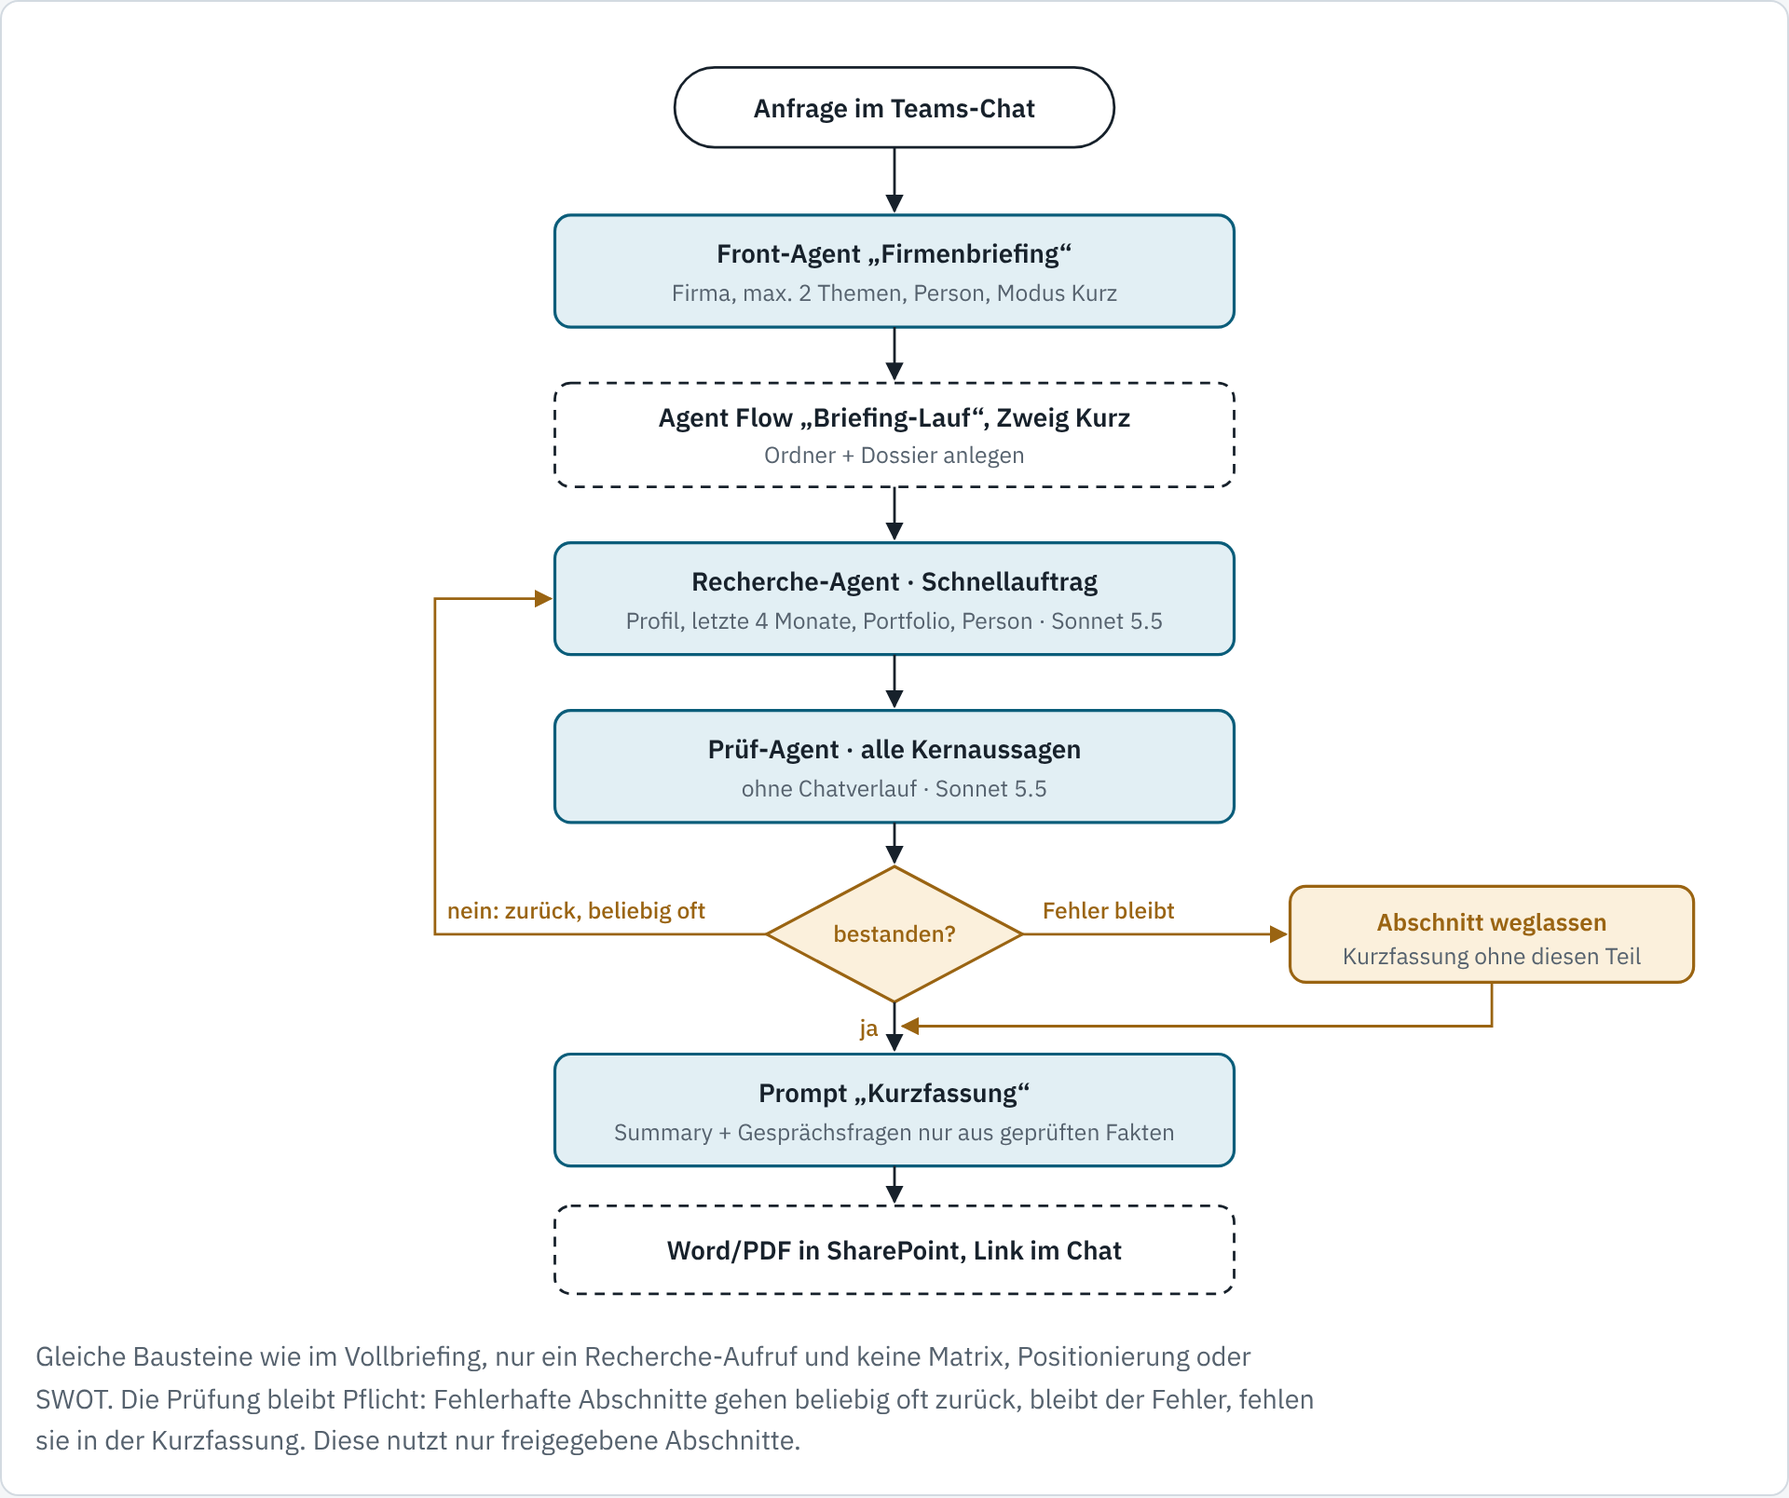
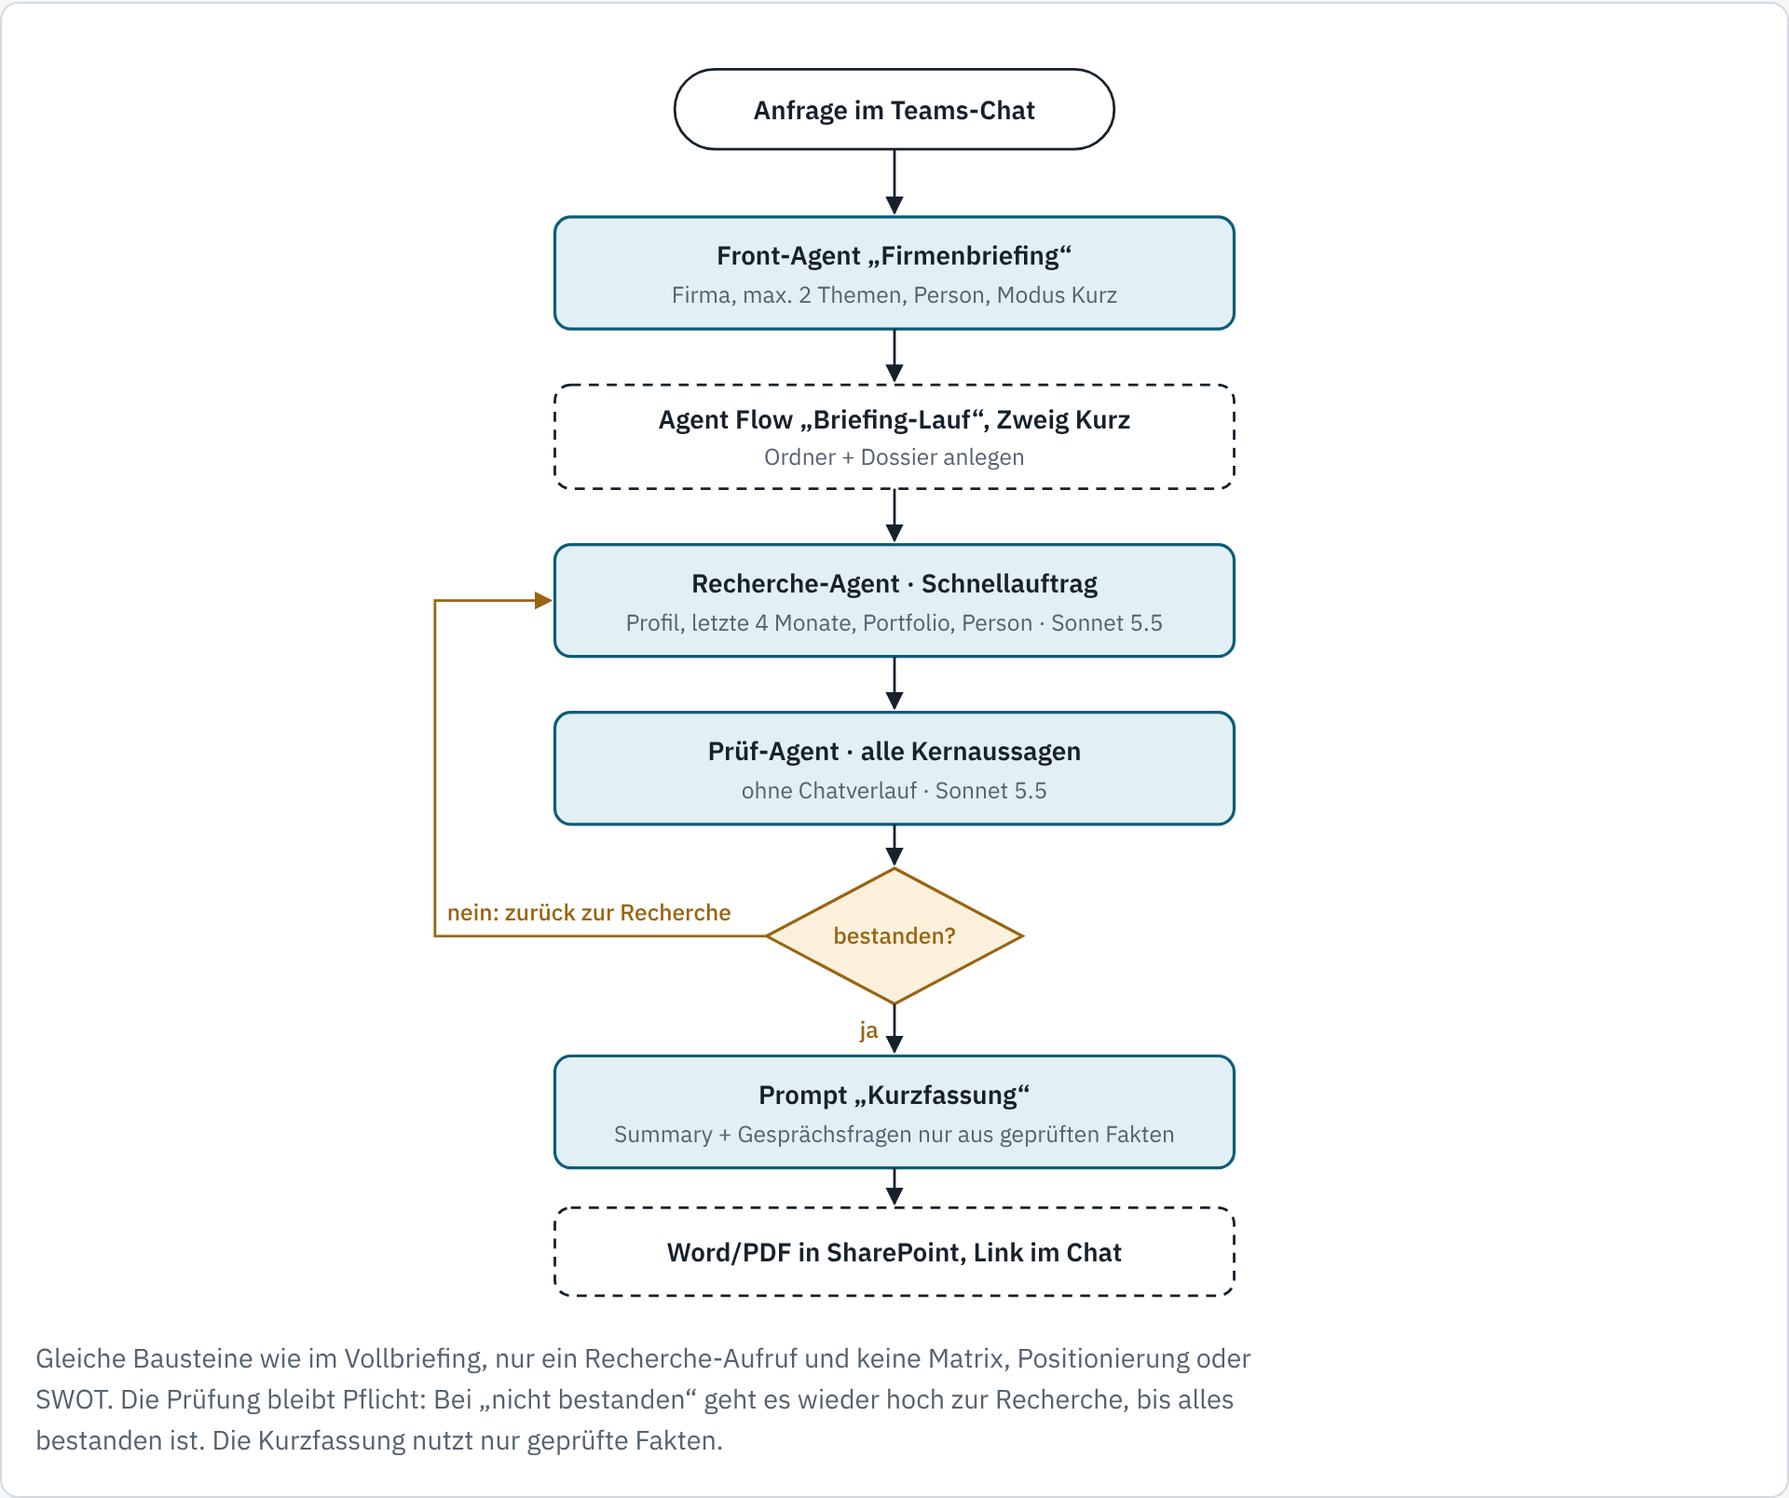
Simplify review gates to a plain loop back on failure
Removes the 'error persists' branch: a failed section simply goes back
to its module until the review passes.

Claude-Session: https://claude.ai/code/session_013EJZuiswwf8FQgHL5qthTW

diff --git a/docs/copilot-studio/zielbild.html b/docs/copilot-studio/zielbild.html
@@ -73,7 +73,6 @@ figcaption { font-size: .9rem; color: var(--muted); max-width: 80ch; }
 .sw-agent { background: var(--agent-fill); border: 1.5px solid var(--accent); }
 .sw-flow { border: 1.5px dashed var(--ink); }
 .sw-gate { background: var(--gate-fill); border: 1.5px solid var(--gate); transform: rotate(45deg) scale(.7); width: 16px; height: 16px; }
-.sw-vm { background: var(--gate-fill); border: 1.5px solid var(--gate); }
 /* SVG-Klassen */
 .ag { fill: var(--agent-fill); stroke: var(--accent); stroke-width: 1.5; }
 .fl { fill: var(--surface); stroke: currentColor; stroke-width: 1.3; stroke-dasharray: 5 4; }
@@ -87,8 +86,6 @@ figcaption { font-size: .9rem; color: var(--muted); max-width: 80ch; }
 .tp { font: 600 12px var(--display); fill: var(--accent); letter-spacing: .05em; }
 .tg { font: 500 11.5px var(--body); fill: var(--gate); }
 .ts { font: 600 12px var(--body); fill: var(--stop); }
-.vm { fill: var(--gate-fill); stroke: var(--gate); stroke-width: 1.5; }
-.tv { font: 600 12px var(--body); fill: var(--gate); }
 .ah { fill: currentColor; }
 .ahg { fill: var(--gate); }
 .cols { display: grid; grid-template-columns: repeat(auto-fit, minmax(280px, 1fr)); gap: 14px; }
@@ -140,7 +137,7 @@ a { color: var(--accent); }
       <tr><td>Dateien je Lauf</td><td>rund 15 JSON-Dateien plus Prüfpläne und Checkpoints</td><td><b>1 Dossier</b> mit einem Abschnitt je Agent, dazu das fertige Briefing</td></tr>
       <tr><td>Wer schreibt</td><td>Jede Rolle schreibt ihre eigene Datei</td><td>Agenten liefern Ergebnisse zurück, <b>nur der Flow schreibt</b></td></tr>
       <tr><td>Freigabe</td><td>Regeln im Prompt plus Python-Prüfskripte</td><td>Prüf-Agent urteilt je Aussage, Flow-Bedingung setzt das Urteil durch</td></tr>
-      <tr><td>Fehler bei der Prüfung</td><td>höchstens 2 Korrekturrunden, danach wird der Lauf blockiert</td><td>Prüf-Agent gibt <b>beliebig oft</b> an das Modul zurück. Bleibt der Fehler, wird <b>der Abschnitt weggelassen</b> und der Lauf geht weiter.</td></tr>
+      <tr><td>Fehler bei der Prüfung</td><td>höchstens 2 Korrekturrunden, danach wird der Lauf blockiert</td><td>Bei „nicht bestanden“ geht der Abschnitt <b>einfach wieder hoch</b> an das zuständige Modul, bis die Prüfung bestanden ist.</td></tr>
       <tr><td>Regelwerk</td><td>rund 315 KB in 36 Referenzdateien</td><td>je Modul eine kurze Auftragskarte, aus dem Repository erzeugt</td></tr>
       <tr><td>Ausgabe</td><td>HTML über lokale Renderer</td><td>Gleiche Renderer als Tool, dazu PDF, Ablage in SharePoint</td></tr>
     </tbody>
@@ -154,11 +151,10 @@ a { color: var(--accent); }
     <span><i class="sw sw-agent"></i>KI-Schritt (Agent oder Prompt)</span>
     <span><i class="sw sw-flow"></i>Flow- oder Code-Schritt</span>
     <span><i class="sw sw-gate"></i>Prüftor</span>
-    <span><i class="sw sw-vm"></i>Abschnitt weglassen</span>
   </div>
   <figure>
   <div class="scroll">
-  <svg viewBox="0 0 860 1060" role="img" aria-label="Vollbriefing: Front-Agent legt den Auftrag an, ein Agent Flow ruft vier Recherche-Module und je Fokusthema einen Aufruf auf, der Prüf-Agent gibt fehlerhafte Abschnitte beliebig oft an das Modul zurück und lässt einen Abschnitt weg, wenn der Fehler bleibt, danach Positionierung, SWOT und Schlussprüfung nach demselben Prinzip, zuletzt rendert ein Tool HTML und PDF in SharePoint.">
+  <svg viewBox="0 0 860 1060" role="img" aria-label="Vollbriefing: Front-Agent legt den Auftrag an, ein Agent Flow ruft vier Recherche-Module und je Fokusthema einen Aufruf auf, bei nicht bestandener Prüfung geht der Abschnitt zurück an das Modul, bis er besteht, danach Positionierung, SWOT und Schlussprüfung nach demselben Prinzip, zuletzt rendert ein Tool HTML und PDF in SharePoint.">
     <defs>
       <marker id="a1" viewBox="0 0 10 10" refX="9" refY="5" markerWidth="7" markerHeight="7" orient="auto-start-reverse"><path d="M0,0 L10,5 L0,10 z" class="ah"/></marker>
       <marker id="g1" viewBox="0 0 10 10" refX="9" refY="5" markerWidth="7" markerHeight="7" orient="auto-start-reverse"><path d="M0,0 L10,5 L0,10 z" class="ahg"/></marker>
@@ -239,14 +235,7 @@ a { color: var(--accent); }
 
     <!-- Rücklauf Phase 1 -->
     <polyline points="366,604 18,604 18,321 34,321" class="lb" marker-end="url(#g1)"/>
-    <text x="40" y="596" class="tg">nein: zurück an das Modul, beliebig oft</text>
-    <!-- Abschnitt weglassen -->
-    <line x1="494" y1="604" x2="626" y2="604" class="lb" marker-end="url(#g1)"/>
-    <text x="504" y="596" class="tg">Fehler bleibt</text>
-    <rect x="628" y="580" width="202" height="48" rx="8" class="vm"/>
-    <text x="729" y="602" text-anchor="middle" class="tv">Abschnitt weglassen</text>
-    <text x="729" y="619" text-anchor="middle" class="t2">Briefing ohne diesen Teil</text>
-    <polyline points="729,628 729,658 434,658" class="lb" marker-end="url(#g1)"/>
+    <text x="40" y="596" class="tg">nein: zurück an das Modul</text>
 
     <!-- Phase 2 -->
     <text x="36" y="676" class="tp">PHASE 2 · BEWERTUNG</text>
@@ -273,13 +262,7 @@ a { color: var(--accent); }
     <polygon points="430,864 494,900 430,936 366,900" class="gt"/>
     <text x="430" y="904" text-anchor="middle" class="tg">bestanden?</text>
     <polyline points="366,900 196,900 196,716 218,716" class="lb" marker-end="url(#g1)"/>
-    <text x="204" y="892" class="tg">nein: zurück, beliebig oft</text>
-    <line x1="494" y1="900" x2="626" y2="900" class="lb" marker-end="url(#g1)"/>
-    <text x="504" y="892" class="tg">Fehler bleibt</text>
-    <rect x="628" y="876" width="202" height="48" rx="8" class="vm"/>
-    <text x="729" y="898" text-anchor="middle" class="tv">Abschnitt weglassen</text>
-    <text x="729" y="915" text-anchor="middle" class="t2">z. B. SWOT entfällt</text>
-    <polyline points="729,924 729,950 434,950" class="lb" marker-end="url(#g1)"/>
+    <text x="204" y="892" class="tg">nein: zurück zur Bewertung</text>
 
     <!-- Ausgabe -->
     <line x1="430" y1="936" x2="430" y2="962" class="ln" marker-end="url(#a1)"/>
@@ -292,7 +275,7 @@ a { color: var(--accent); }
     <text x="746" y="995" text-anchor="middle" class="t1">Link im Teams-Chat</text>
   </svg>
   </div>
-  <figcaption>Der Flow ruft dieselben Agenten mehrfach auf, jeweils mit einer anderen Auftragskarte. Alle Recherche-Aufrufe nutzen die Tools „Websuche“ und „Quelle abrufen“; Bewertung und SWOT arbeiten ohne Websuche. Jeder Rücklauf geht gezielt an das betroffene Modul, nicht an den ganzen Lauf, und zwar so oft wie nötig. „Fehler bleibt“ heißt: Der Prüf-Agent meldet denselben Fehler erneut, oder die technische Obergrenze des Flows ist erreicht. Dann fällt der Abschnitt weg, und alles, was darauf aufbaut, nutzt ihn nicht. Der Lauf wird nie blockiert.</figcaption>
+  <figcaption>Der Flow ruft dieselben Agenten mehrfach auf, jeweils mit einer anderen Auftragskarte. Alle Recherche-Aufrufe nutzen die Tools „Websuche“ und „Quelle abrufen“; Bewertung und SWOT arbeiten ohne Websuche. Bei „nicht bestanden“ geht nur der betroffene Abschnitt wieder hoch an sein Modul, nicht der ganze Lauf. Das wiederholt sich, bis die Prüfung bestanden ist.</figcaption>
   </figure>
 </section>
 
@@ -300,7 +283,7 @@ a { color: var(--accent); }
   <h2>Ablauf Kurzbriefing</h2>
   <figure>
   <div class="scroll">
-  <svg viewBox="0 0 860 640" role="img" aria-label="Kurzbriefing: Front-Agent legt den Auftrag an, der Flow ruft einen Schnellrecherche-Aufruf auf, der Prüf-Agent gibt Fehler beliebig oft zurück und lässt einen Abschnitt weg, wenn der Fehler bleibt, ein Prompt schreibt Summary und Gesprächsfragen, das Ergebnis landet als Word oder PDF in SharePoint.">
+  <svg viewBox="0 0 860 640" role="img" aria-label="Kurzbriefing: Front-Agent legt den Auftrag an, der Flow ruft einen Schnellrecherche-Aufruf auf, bei nicht bestandener Prüfung geht es zurück zur Recherche, bis sie besteht, danach schreibt ein Prompt Summary und Gesprächsfragen, das Ergebnis landet als Word oder PDF in SharePoint.">
     <defs>
       <marker id="a2" viewBox="0 0 10 10" refX="9" refY="5" markerWidth="7" markerHeight="7" orient="auto-start-reverse"><path d="M0,0 L10,5 L0,10 z" class="ah"/></marker>
       <marker id="g2" viewBox="0 0 10 10" refX="9" refY="5" markerWidth="7" markerHeight="7" orient="auto-start-reverse"><path d="M0,0 L10,5 L0,10 z" class="ahg"/></marker>
@@ -332,13 +315,7 @@ a { color: var(--accent); }
     <polygon points="430,416 494,450 430,484 366,450" class="gt"/>
     <text x="430" y="454" text-anchor="middle" class="tg">bestanden?</text>
     <polyline points="366,450 200,450 200,282 258,282" class="lb" marker-end="url(#g2)"/>
-    <text x="206" y="442" class="tg">nein: zurück, beliebig oft</text>
-    <line x1="494" y1="450" x2="626" y2="450" class="lb" marker-end="url(#g2)"/>
-    <text x="504" y="442" class="tg">Fehler bleibt</text>
-    <rect x="628" y="426" width="202" height="48" rx="8" class="vm"/>
-    <text x="729" y="448" text-anchor="middle" class="tv">Abschnitt weglassen</text>
-    <text x="729" y="465" text-anchor="middle" class="t2">Kurzfassung ohne diesen Teil</text>
-    <polyline points="729,474 729,496 434,496" class="lb" marker-end="url(#g2)"/>
+    <text x="206" y="442" class="tg">nein: zurück zur Recherche</text>
 
     <line x1="430" y1="484" x2="430" y2="508" class="ln" marker-end="url(#a2)"/>
     <text x="422" y="501" text-anchor="end" class="tg">ja</text>
@@ -351,17 +328,16 @@ a { color: var(--accent); }
     <text x="430" y="613" text-anchor="middle" class="t1">Word/PDF in SharePoint, Link im Chat</text>
   </svg>
   </div>
-  <figcaption>Gleiche Bausteine wie im Vollbriefing, nur ein Recherche-Aufruf und keine Matrix, Positionierung oder SWOT. Die Prüfung bleibt Pflicht: Fehlerhafte Abschnitte gehen beliebig oft zurück, bleibt der Fehler, fehlen sie in der Kurzfassung. Diese nutzt nur freigegebene Abschnitte.</figcaption>
+  <figcaption>Gleiche Bausteine wie im Vollbriefing, nur ein Recherche-Aufruf und keine Matrix, Positionierung oder SWOT. Die Prüfung bleibt Pflicht: Bei „nicht bestanden“ geht es wieder hoch zur Recherche, bis alles bestanden ist. Die Kurzfassung nutzt nur geprüfte Fakten.</figcaption>
   </figure>
   <div class="scroll">
   <table>
     <thead><tr><th></th><th>Kurzbriefing</th><th>Vollbriefing</th></tr></thead>
     <tbody>
       <tr><td>Zweck</td><td>Schnelle Gesprächsvorbereitung</td><td>Strategische Vorbereitung für das Top-Management</td></tr>
-      <tr><td class="num">KI-Aufrufe</td><td class="num">3 + je Rücklauf 2</td><td class="num">8 + 1 je Fokusthema + Prüfaufrufe je Modul</td></tr>
+      <tr><td class="num">KI-Aufrufe</td><td class="num">3 + 2 je Rücklauf</td><td class="num">8 + 1 je Fokusthema + Prüfaufrufe je Modul</td></tr>
       <tr><td>Inhalte</td><td>Profil, aktuelle Entwicklungen, Portfolio-Überblick, Person, Gesprächsfragen</td><td>dazu Struktur/Netzwerk, Markt und Wettbewerb, Capability-Matrix, Positionierung, SWOT, Fokusseiten</td></tr>
-      <tr><td>Ergebnis</td><td>immer, fehlerhafte Abschnitte weggelassen</td><td>immer, fehlerhafte Abschnitte weggelassen</td></tr>
-      <tr><td>Ausgabe</td><td>Word oder PDF, 2–3 Seiten</td><td>interaktive HTML (bestehende Vorlage) und PDF</td></tr>
+            <tr><td>Ausgabe</td><td>Word oder PDF, 2–3 Seiten</td><td>interaktive HTML (bestehende Vorlage) und PDF</td></tr>
     </tbody>
   </table>
   </div>
@@ -375,7 +351,7 @@ a { color: var(--accent); }
     <thead><tr><th>Baustein</th><th>Einsatz im Briefing</th><th>Warum</th></tr></thead>
     <tbody>
       <tr><td><b>Agent</b> (veröffentlicht in Teams/M365 Copilot)</td><td>Front-Agent „Firmenbriefing“</td><td>Nimmt die Anfrage in normaler Sprache an und legt den Auftrag ab. Gibt am Ende den Link aus.</td></tr>
-      <tr><td><b>Agent Flow</b></td><td>„Briefing-Lauf“: Reihenfolge, Schleife je Fokusthema, Prüftore, Rückläufe, Abschnitte weglassen, Dossier schreiben</td><td>Deterministisch, mit Schleifen, Bedingungen und Agentenaufrufen. Startet über einen neuen Listeneintrag, weil ein vom Agenten direkt aufgerufener Flow nach rund zwei Minuten antworten muss.</td></tr>
+      <tr><td><b>Agent Flow</b></td><td>„Briefing-Lauf“: Reihenfolge, Schleife je Fokusthema, Prüftore, Rückläufe, Dossier schreiben</td><td>Deterministisch, mit Schleifen, Bedingungen und Agentenaufrufen. Startet über einen neuen Listeneintrag, weil ein vom Agenten direkt aufgerufener Flow nach rund zwei Minuten antworten muss.</td></tr>
       <tr><td><b>Connected Agent</b></td><td>Recherche, Recherche Tiefe, Prüfung, Bewertung</td><td>Eigenes Modell, eigene Werkzeuge. Der Chatverlauf lässt sich abschalten, so bleibt der Prüf-Agent unabhängig.</td></tr>
       <tr><td><b>Child Agent</b></td><td>nicht für Rollen verwenden</td><td>Child Agents teilen immer den Kontext des Haupt-Agenten. Damit wäre die Prüfung nicht unabhängig.</td></tr>
       <tr><td><b>Prompt-Aktion</b> im Flow</td><td>Kurzfassung im Kurzbriefing</td><td>Ein einzelner, klar umrissener Textschritt braucht keinen eigenen Agenten.</td></tr>
@@ -450,9 +426,9 @@ a { color: var(--accent); }
   <h2>Umsetzung Stück für Stück</h2>
   <ol class="steps">
     <li><b>Stufe 0 · Voraussetzungen</b><span>Power-Platform-Umgebung, Copilot Credits mit Budgetgrenze, Anthropic-Modelle und Websuche durch die Administration freigeben, SharePoint-Site mit Auftragsliste und Bibliothek „Läufe“.</span><span class="ok">Fertig, wenn ein Test-Agent mit Claude-Modell im Teams-Chat antwortet.</span></li>
-    <li><b>Stufe 1 · Durchstich Kurzbriefing</b><span>Front-Agent, Auftragsliste, Agent Flow mit Zweig „Kurz“, Recherche-Agent, Prüf-Agent, Kurzfassung als Word-Datei.</span><span class="ok">Fertig, wenn ein echter Lauf durchläuft, jede Aussage eine URL trägt und ein absichtlich falscher, nicht korrigierbarer Abschnitt weggelassen wird, ohne dass der Lauf stoppt.</span></li>
+    <li><b>Stufe 1 · Durchstich Kurzbriefing</b><span>Front-Agent, Auftragsliste, Agent Flow mit Zweig „Kurz“, Recherche-Agent, Prüf-Agent, Kurzfassung als Word-Datei.</span><span class="ok">Fertig, wenn ein echter Lauf durchläuft, jede Aussage eine URL trägt und ein absichtlich falscher Fakt zurück an die Recherche geht und danach korrigiert besteht.</span></li>
     <li><b>Stufe 2 · Quellen richtig lesen</b><span>Tool „Quelle abrufen“ als Custom Connector auf Basis des vorhandenen Quellen-Caches: HTML und PDF, Seitenangabe, Abrufdatum.</span><span class="ok">Fertig, wenn ein Geschäftsbericht mit Seitenangabe belegt wird.</span></li>
-    <li><b>Stufe 3 · Vollbriefing Fakten</b><span>Recherche-Tiefe-Agent, Zweig „Voll“ mit vier Modulen, Schleife je Fokusthema, Prüfung je Modul, Rücklauf ohne feste Rundenzahl, Weglassen bei bleibendem Fehler.</span><span class="ok">Fertig, wenn zwei Fokusthemen getrennte Abschnitte liefern, eine Korrektur nur das betroffene Modul neu startet und ein fehlerhaftes Modul im Briefing fehlt.</span></li>
+    <li><b>Stufe 3 · Vollbriefing Fakten</b><span>Recherche-Tiefe-Agent, Zweig „Voll“ mit vier Modulen, Schleife je Fokusthema, Prüfung je Modul, Rücklauf an das Modul bis zum Bestehen.</span><span class="ok">Fertig, wenn zwei Fokusthemen getrennte Abschnitte liefern, eine Korrektur nur das betroffene Modul neu startet.</span></li>
     <li><b>Stufe 4 · Bewertung</b><span>Bewertungs-Agent für Positionierung und SWOT, Schlussprüfung.</span><span class="ok">Fertig, wenn jede Bewertung auf geprüfte Fakten verweist.</span></li>
     <li><b>Stufe 5 · Ausgabe</b><span>Tool „Briefing rendern“ mit der bestehenden HTML-Vorlage, zusätzlich PDF, Ablage in SharePoint.</span><span class="ok">Fertig, wenn das Ergebnis der heutigen HTML entspricht und in SharePoint geöffnet werden kann.</span></li>
     <li><b>Stufe 6 · Freigabe für alle</b><span>Als Lösung von Test nach Produktion übertragen, Veröffentlichung in Teams, Verbrauch beobachten, Kurzanleitung.</span><span class="ok">Fertig nach einem Pilot mit drei Nutzern und drei Firmen.</span></li>
@@ -467,7 +443,7 @@ a { color: var(--accent); }
     <li>Welche Claude-Modelle sind im Mandanten produktiv nutzbar?</li>
     <li>Wie lang dürfen Anweisungen je Agent sein? Das bestimmt den Zuschnitt der Auftragskarten.</li>
     <li>Was kostet ein Lauf in Copilot Credits? Abgerechnet werden Modell-Tokens, Werkzeuge und Flow-Aktionen. Jeder Rücklauf kostet erneut.</li>
-    <li>Welche Obergrenze für Rückläufe setzen wir im Flow? Schleifen haben dort eine technische Höchstzahl, und jeder Rücklauf verbraucht Credits.</li>
+    <li>Schleifen im Agent Flow haben eine technische Höchstzahl an Durchläufen (im Express-Modus 100). Was passiert, wenn sie erreicht wird?</li>
   </ul>
 </section>
 
@@ -480,7 +456,7 @@ Ziel: Version B für Microsoft Copilot Studio, einfach und modular, Schritt für
 Rahmen:
 - 5 Connected Agents: Front-Agent, Recherche (Sonnet 5.5), Recherche Tiefe (Opus 5.5), Prüfung (Sonnet 5.5, ohne Chatverlauf), Bewertung (Opus 5.5).
 - Ein Agent Flow „Briefing-Lauf“ steuert Reihenfolge, Schleife je Fokusthema und Prüftore.
-- Der Prüf-Agent gibt fehlerhafte Abschnitte beliebig oft an das zuständige Modul zurück. Bleibt der Fehler, wird der Abschnitt weggelassen; der Lauf blockiert nie.
+- Bei „nicht bestanden“ geht der Abschnitt wieder hoch an das zuständige Modul, bis die Prüfung bestanden ist.
 - Ein Dossier je Lauf in SharePoint; Agenten liefern Abschnitte zurück, nur der Flow schreibt.
 - Tools per Custom Connector: „Quelle abrufen“ (source-cache.py) und „Briefing rendern“ (render-briefing.py).
 - Zwei Zweige: Kurzbriefing und Vollbriefing.
